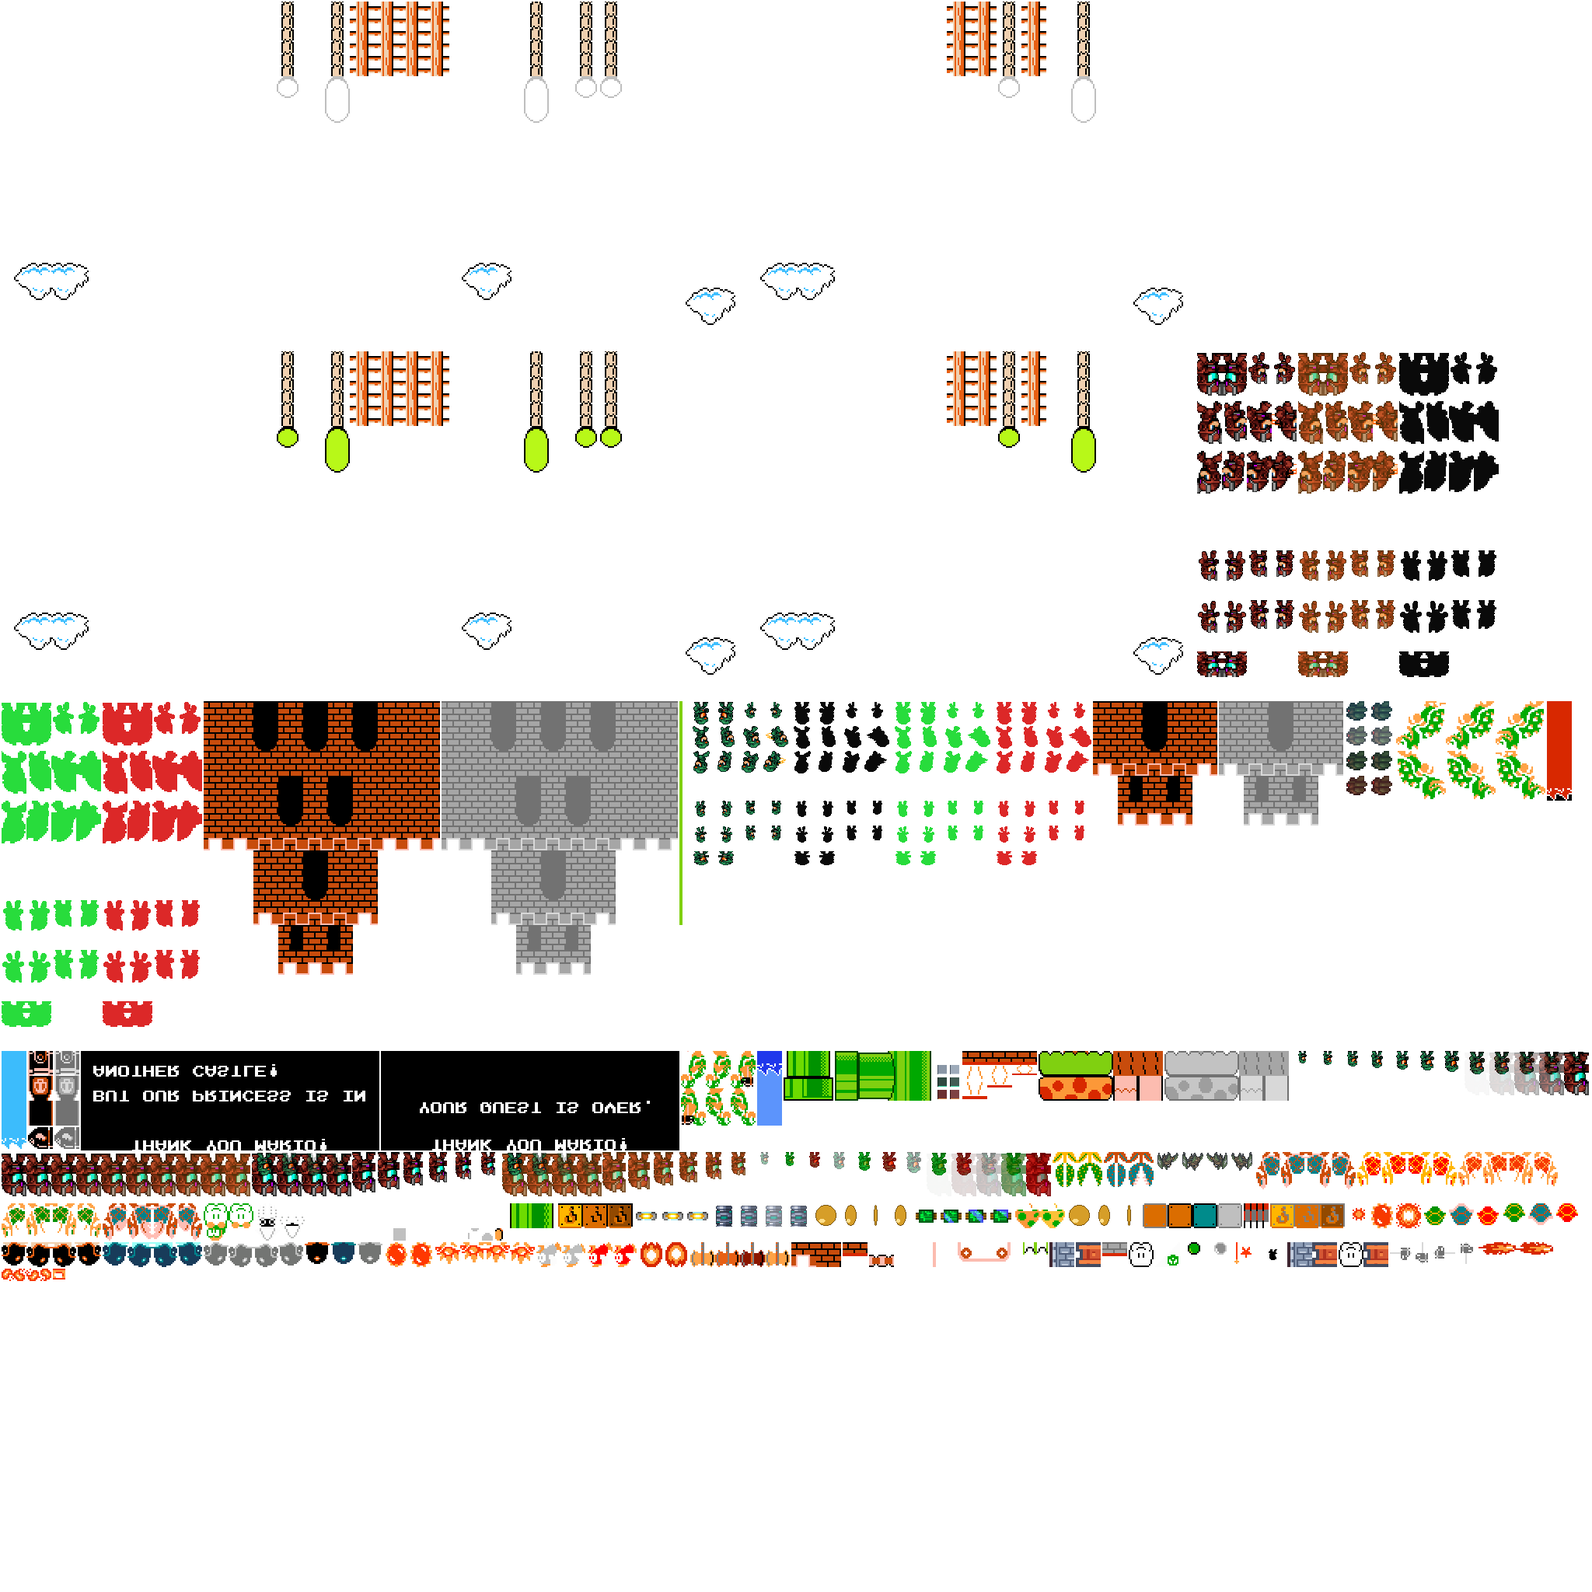
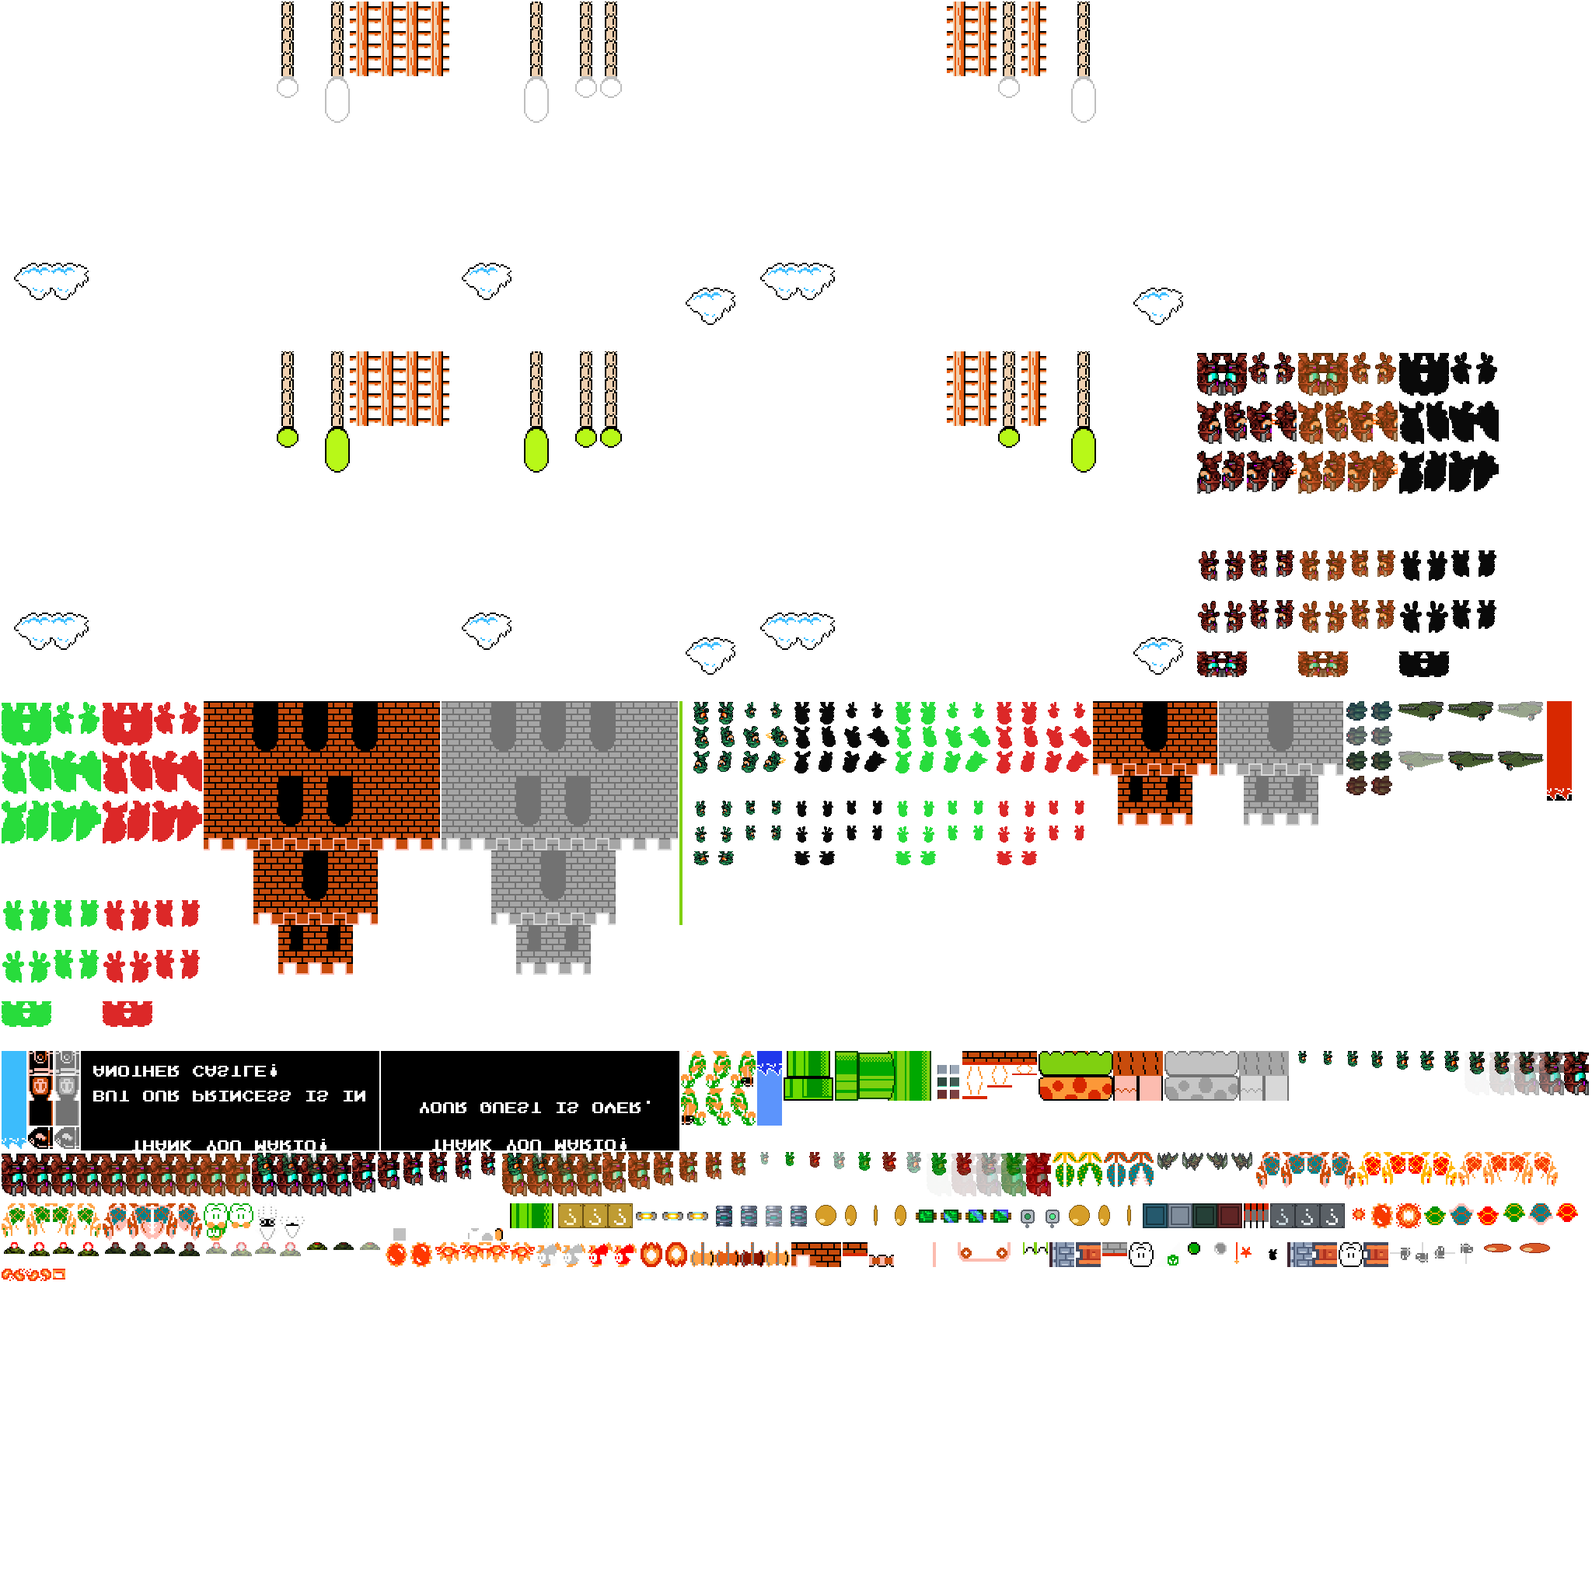
R.4 Junior Dev Guide Tasks 1-5: Iron, QuestionMark, Helmet, Boss/BossFire, 1UP
Redoes the R.4 handoff from scratch - the prior junior-dev pass had produced
no output at all (guide + sprite_tools.py existed, none of its tasks run).

- Iron: procedural, per-theme palette reused from stone/chocolate/brick, but
  flatter/duller to read as "depleted".
- QuestionMark/QuestionMarkGrey: procedural beveled block + hand-drawn pixel
  "?" glyph, brightening across the 3-frame idle bob. Confirmed Bank.java
  reuses the plain themed brick region instead - no new art needed there.
- Helmet family: Robot Master Series' enemy3, a clam/shell creature (not a
  legged walker like enemy1/enemy2, confirmed via getbbox scan) - its shut
  frame doubles as helmet_shell directly.
- Boss/BossFire (The Warden): Robot Master Series' miniboss1 tank-robot
  (144x80/frame, confirmed via PIL, not the filename convention alone); no
  boss-body fire pose exists in source, built via glow_pulse instead.
  BossFire is a procedural ember (same technique as the coin).
- 1UP (Spare chassis): hand-pixelled chassis/antenna icon.

Every crop verified via getbbox() at generation time, every output PNG
viewed before packing. Packed (51/122 overlay, up from 39/122, same
page/region counts) and compiled clean. Not yet on-device tested - no test
device available this session.

Claude-Session: https://claude.ai/code/session_01AwSuhSoywzR375iAH3BYRv

diff --git a/docs/assets/mario-sprites/ampere-staging/build_r4_tasks1to5.py b/docs/assets/mario-sprites/ampere-staging/build_r4_tasks1to5.py
@@ -1,0 +1,265 @@
+"""
+Step R.4, Junior Dev Guide Tasks 1-5 (docs/mario/MARIO_RESKIN_JUNIOR_DEV_GUIDE.md Sec4).
+
+Task 1 - Iron ("used up" block): procedural, reusing the same per-theme
+    palette as stone/chocolate/brick (build_terrain_and_common.py's THEMES),
+    but flatter/duller ("depleted") - no light-accent corners, single inset
+    panel instead of the raised-center look stone_tile uses.
+Task 2 - QuestionMark / QuestionMarkGrey: procedural beveled block + a
+    hand-drawn pixel "?" glyph (bitmap font below), glowing brighter across
+    the 3 idle-bob frames. Bank confirmed (by reading Bank.java) to reuse
+    the plain "brick" themed region, NOT question_mark - no new art needed
+    for Bank itself.
+Task 3 - Helmet/HelmetShell family: Robot Master Series' enemy3 (a
+    clam-like creature that opens/closes - confirmed via enemy3all.png and
+    per-frame getbbox() scan, NOT a legged walker like enemy1/enemy2). Its
+    closed frame doubles naturally as "helmet_shell" (a shut shell), open
+    frames as the "helmet" walk animation - a better thematic fit than
+    forcing a legged-walk read onto a shell creature.
+Task 4 - The Warden (Boss/BossFire): Robot Master Series' miniboss1 (a
+    tank-style robot, confirmed 144x80/frame via
+    miniboss1_base[80height144wide].png, 11 near-identical left-facing
+    frames - the bracket naming is [[height]height[width]wide], confirmed
+    against actual PIL .size, not assumed). No boss-body "spitting fire"
+    pose exists in the source (the laser sheets are beam VFX, not body
+    poses) - built via glow_pulse on the idle pose instead. BossFire (the
+    thrown projectile, 48x16/frame) has no source match either - procedural
+    flame/ember, same technique already used for the coin.
+Task 5 - Spare chassis (one_up/Life.java): no clean thematic match found in
+    either pack (confirmed by KENNEY_ALL_IN_ONE_INDEX.md Sec2's own research) -
+    hand-pixelled small chassis/antenna icon per the guide's own recommended
+    fallback, cheaper and more on-identity than importing a heart icon.
+
+Every crop is verified via getbbox() before use - printed at generation time.
+"""
+import sys
+sys.path.insert(0, "C:/workspace/morsecode/docs/assets/mario-sprites/ampere-staging")
+from sprite_tools import verified_crop, place_content, tint, glow_pulse, mirror, build_sheet, is_tileable_texture
+from PIL import Image, ImageDraw
+import os
+
+OUT = "C:/workspace/morsecode/docs/assets/mario-sprites/reskin-source"
+ROBOT_PACK = "C:/workspace/robot_series_base_pack"
+
+# Same palette already established for stone/chocolate/brick (Ground/
+# Substrate/Fortress/Flooded Sector) - reused here so Iron/QuestionMark read
+# as "part of this world" rather than a mismatched fifth material.
+THEMES = {
+    "":              ((138, 151, 166), (77, 88, 102), (199, 210, 219)),
+    "_UnderGround":  ((47, 74, 65),    (22, 36, 31),   (53, 208, 160)),
+    "_Castle":       ((107, 47, 47),   (58, 23, 23),   (217, 140, 74)),
+    "_Sea":          ((47, 99, 119),   (22, 53, 64),   (127, 224, 232)),
+}
+
+
+def rect(im, x0, y0, x1, y1, color):
+    for y in range(y0, y1):
+        for x in range(x0, x1):
+            im.putpixel((x, y), color + (255,))
+
+
+# ------------------------------------------------------------- Task 1: Iron
+
+def iron_tile(base, dark):
+    """A flatter, duller variant of stone_tile - single inset panel, no
+    light-accent corners - reads as "depleted/used up" next to the
+    brighter, highlight-cornered stone/chocolate/brick tiles."""
+    im = Image.new("RGBA", (32, 32), dark + (255,))
+    rect(im, 2, 2, 30, 30, base)
+    rect(im, 4, 4, 28, 28, dark)
+    rect(im, 6, 6, 26, 26, tuple(max(0, c - 10) for c in base))
+    return im
+
+
+def build_iron():
+    print("Iron (procedural, per-theme):")
+    # AssetSpec: iron -> Iron.png, 4 cols x 1 row. Frame 0=Sea (unused in
+    # World 1 but still drawn for completeness), 1=Ground, 2=UnderGround,
+    # 3=Castle (per Iron.java's FRAME_GROUND/FRAME_UNDERGROUND/FRAME_CASTLE).
+    order = ["_Sea", "", "_UnderGround", "_Castle"]
+    frames = [iron_tile(THEMES[k][0], THEMES[k][1]) for k in order]
+    build_sheet(32, 32, frames, 4, 1, f"{OUT}/Iron.png")
+
+
+# ------------------------------------------------------- Task 2: QuestionMark
+
+# A compact 5x7 pixel "?" glyph (1=filled). Hand-drawn, not extracted.
+GLYPH_QMARK = [
+    "01110",
+    "10001",
+    "00001",
+    "00010",
+    "00100",
+    "00000",
+    "00100",
+]
+
+
+def glyph_mask(glyph, scale):
+    gw, gh = len(glyph[0]), len(glyph)
+    im = Image.new("L", (gw, gh), 0)
+    for y, row in enumerate(glyph):
+        for x, c in enumerate(row):
+            if c == "1":
+                im.putpixel((x, y), 255)
+    return im.resize((gw * scale, gh * scale), Image.NEAREST)
+
+
+def question_block(base, dark, light, glow, glow_strength):
+    im = Image.new("RGBA", (32, 32), base + (255,))
+    rect(im, 0, 0, 32, 1, dark)
+    rect(im, 0, 31, 32, 32, dark)
+    rect(im, 0, 0, 1, 32, dark)
+    rect(im, 31, 0, 32, 32, dark)
+    for cx, cy in ((2, 2), (2, 29), (29, 2), (29, 29)):
+        rect(im, cx - 1, cy - 1, cx + 1, cy + 1, dark)
+    mask = glyph_mask(GLYPH_QMARK, 3)
+    mw, mh = mask.size
+    gx, gy = (32 - mw) // 2, (32 - mh) // 2 - 1
+    glyph_color = tuple(min(255, int(c + (255 - c) * glow_strength)) for c in glow)
+    glyph_layer = Image.new("RGBA", (32, 32), (0, 0, 0, 0))
+    glyph_layer.paste(Image.new("RGBA", mask.size, glyph_color + (255,)), (gx, gy), mask)
+    im.alpha_composite(glyph_layer)
+    return im
+
+
+def build_question_mark():
+    print("QuestionMark / QuestionMarkGrey (procedural, 3-frame bob):")
+    # question_mark (Ground/Sea contexts): amber block, bright cyan-white glyph.
+    base, dark, light = (191, 156, 51), (107, 82, 20), (247, 214, 130)
+    glow = (255, 244, 200)
+    frames = [question_block(base, dark, light, glow, s) for s in (0.0, 0.45, 1.0)]
+    build_sheet(32, 32, frames, 3, 1, f"{OUT}/QuestionMark.png")
+
+    # question_mark_grey (UnderGround/Castle): muted grey block, dimmer glow.
+    base_g, dark_g, light_g = (90, 96, 102), (48, 52, 58), (150, 156, 162)
+    glow_g = (200, 214, 220)
+    frames_g = [question_block(base_g, dark_g, light_g, glow_g, s) for s in (0.0, 0.4, 0.85)]
+    build_sheet(32, 32, frames_g, 3, 1, f"{OUT}/QuestionMarkGrey.png")
+
+
+# --------------------------------------------------------- Task 3: Helmet
+
+def build_helmet():
+    print("Helmet / HelmetShell family (Robot Master Series enemy3, verified crops):")
+    sheet = Image.open(f"{ROBOT_PACK}/enemy3/enemy3attack-Sheet[32height32wide].png").convert("RGBA")
+    assert sheet.size == (352, 32), f"unexpected enemy3attack sheet size {sheet.size}"
+    n = sheet.width // 32
+    frames = [verified_crop(sheet, (i * 32, 0, (i + 1) * 32, 32), f"enemy3_f{i}") for i in range(n)]
+
+    # frame 0 = fully closed shell (content bbox height ~7px) - use directly
+    # for helmet_shell (a shut shell is exactly what that state should look
+    # like). frames 2 and 5 = two distinct mid-open poses, used as the
+    # "walk" pair (this creature has no leg-walk animation - an opening/
+    # closing shell reads as its equivalent of movement).
+    shell_raw = frames[0]
+    walk_a_raw = frames[2]
+    walk_b_raw = frames[5]
+
+    shell_base = place_content(shell_raw, 32, 32, fill=0.8, anchor="bottom")
+    walk_a = place_content(walk_a_raw, 32, 32, fill=0.85, anchor="bottom")
+    walk_b = place_content(walk_b_raw, 32, 32, fill=0.85, anchor="bottom")
+
+    # Source is a green shell / red interior, already close to a "normal"
+    # palette - dark and white variants are tint-recolors of the same art,
+    # matching how Scuttler/Roller's theme recolors already work.
+    palettes = {
+        "": (None, None),                      # normal - no tint, use source colors as-is
+        "dark": ((25, 35, 30), 0.65),           # dark, mossy
+        "white": ((225, 230, 232), 0.55),      # pale/white
+    }
+    for suffix, (color, strength) in palettes.items():
+        def maybe_tint(frame):
+            return tint(frame, color, strength) if color else frame
+
+        left_a, left_b = mirror(maybe_tint(walk_a)), mirror(maybe_tint(walk_b))
+        right_a, right_b = maybe_tint(walk_a), maybe_tint(walk_b)
+        # Helmet.java: cols 0-1 = left-facing walk pair, cols 2-3 = right-facing walk pair.
+        frames_out = [left_a, left_b, right_a, right_b]
+        name = f"Helmet{suffix}.png" if not suffix else f"Helmet{suffix}.png"
+        # Match AssetSpec exact filenames: Helmet.png / Helmetdark.png / Helmetwhite.png
+        fname = {"": "Helmet.png", "dark": "Helmetdark.png", "white": "Helmetwhite.png"}[suffix]
+        build_sheet(32, 32, frames_out, 4, 1, f"{OUT}/{fname}")
+
+        shell_fname = {"": "HelmetShell.png", "dark": "HelmetShelldark.png", "white": "HelmetShellwhite.png"}[suffix]
+        maybe_tint(shell_base).save(f"{OUT}/{shell_fname}")
+        print("wrote", f"{OUT}/{shell_fname}")
+
+
+# ----------------------------------------------------- Task 4: The Warden
+
+def build_boss():
+    print("The Warden / Boss + BossFire (Robot Master Series miniboss1, verified crops):")
+    base_sheet = Image.open(f"{ROBOT_PACK}/miniboss1/miniboss1_base[80height144wide].png").convert("RGBA")
+    fw, fh = 144, 80
+    assert base_sheet.size[1] == fh and base_sheet.size[0] % fw == 0, f"unexpected miniboss1 base sheet size {base_sheet.size}"
+    idle_a_raw = verified_crop(base_sheet, (0 * fw, 0, 1 * fw, fh), "miniboss_idle_a")
+    idle_b_raw = verified_crop(base_sheet, (1 * fw, 0, 2 * fw, fh), "miniboss_idle_b")
+
+    # Boss.java: super(region, tileSize*2, tileSize*2, ...) - 64x64 cell, and
+    # its own doc: "boss" region is 64x64/frame, 3 cols x 2 rows.
+    cell = 64
+    idle_a = place_content(idle_a_raw, cell, cell, fill=0.92, anchor="bottom")
+    idle_b = place_content(idle_b_raw, cell, cell, fill=0.92, anchor="bottom")
+    fire_pose = glow_pulse(idle_a, 0.45)  # no distinct "spitting fire" body pose exists in source; a bright flash reads as "active/firing"
+
+    left_a, left_b, left_fire = idle_a, idle_b, fire_pose
+    right_a, right_b, right_fire = mirror(idle_a), mirror(idle_b), mirror(fire_pose)
+
+    # Linear frame index = row * cols + col (row-major, confirmed by the
+    # existing player/enemy/terrain sheets' own row convention). Per
+    # Boss.java's doc: 0/1=look-left idle, 2=fire pose, 4/5=look-right idle
+    # (3 unused - filled with the mirrored fire pose for completeness).
+    frames_by_cell = {
+        (0, 0): left_a, (1, 0): left_b, (2, 0): left_fire,
+        (0, 1): right_fire, (1, 1): right_a, (2, 1): right_b,
+    }
+    build_sheet(cell, cell, frames_by_cell, 3, 2, f"{OUT}/Boss.png")
+
+    # BossFire.java: "boss_fire" region is 48x16/frame, 2 frames (96x16
+    # total). No source match in either pack (the laser sheets are beam
+    # VFX, not a drifting-flame shape) - procedural ember, same technique
+    # already used for the Bolt/gear coin.
+    def flame_frame(flicker):
+        im = Image.new("RGBA", (48, 16), (0, 0, 0, 0))
+        draw = ImageDraw.Draw(im)
+        w = 34 + flicker
+        h = 10 + flicker // 2
+        x0, y0 = (48 - w) // 2, (16 - h) // 2
+        draw.ellipse((x0, y0, x0 + w, y0 + h), fill=(217, 90, 40, 255), outline=(140, 40, 20, 255))
+        hi_w, hi_h = max(2, w // 3), max(2, h // 3)
+        draw.ellipse((x0 + 4, y0 + 2, x0 + 4 + hi_w, y0 + 2 + hi_h), fill=(255, 200, 120, 230))
+        return im
+
+    build_sheet(48, 16, [flame_frame(0), flame_frame(4)], 2, 1, f"{OUT}/BossFire.png")
+
+
+# ------------------------------------------------------- Task 5: Spare chassis
+
+def build_one_up():
+    print("Spare chassis / 1UP (hand-pixelled, no source match found):")
+    # A small chassis/head icon: rounded grey-blue head shape with a single
+    # green "life" light - distinct from the Battery cell (orange glow) and
+    # Overclock chip (green gem) so it doesn't read as either of those.
+    def chassis_frame(lit):
+        im = Image.new("RGBA", (32, 32), (0, 0, 0, 0))
+        draw = ImageDraw.Draw(im)
+        draw.rounded_rectangle((7, 6, 24, 23), radius=4, fill=(180, 188, 196, 255), outline=(90, 96, 104, 255), width=2)
+        # small antenna
+        draw.line((15, 6, 15, 2), fill=(120, 128, 136, 255), width=2)
+        draw.ellipse((13, 0, 17, 4), fill=(120, 128, 136, 255))
+        # single eye/life-light, brighter in the "lit" frame
+        eye_color = (86, 232, 140, 255) if lit else (54, 158, 96, 255)
+        draw.ellipse((12, 11, 19, 18), fill=eye_color, outline=(30, 60, 40, 255))
+        return im
+
+    build_sheet(32, 32, [chassis_frame(False), chassis_frame(True)], 2, 1, f"{OUT}/1UP.png")
+
+
+if __name__ == "__main__":
+    os.makedirs(OUT, exist_ok=True)
+    build_iron()
+    build_question_mark()
+    build_helmet()
+    build_boss()
+    build_one_up()

diff --git a/docs/mario/MARIO_RESKIN_EXECUTION.md b/docs/mario/MARIO_RESKIN_EXECUTION.md
@@ -547,11 +547,53 @@ closes.
       a bug report. Packed (39/122 overlay) and compiled clean; **not yet on-device
       verified.**
 
-      **Still open for R.4** (tier-3/4 per §16.4, not yet started): `turtle_shell_red`/
-      `_flip` variants and `enemy_turtle_patrol` (not reached by World 1's own data, per
-      `TurtleShell.java`'s doc — lower priority); Plater/`FlyingTurtle`/`Helmet` family;
-      `Iron`; `QuestionMark`/`Bank` family; The Warden/`Boss`; and tier-4's long tail of
-      one-off enemies/mechanisms.
+      **2026-09-12: Junior Dev Guide Tasks 1-5 done** (`build_r4_tasks1to5.py`, per
+      [MARIO_RESKIN_JUNIOR_DEV_GUIDE.md §4](MARIO_RESKIN_JUNIOR_DEV_GUIDE.md#4-ready-to-execute-tasks-do-these-first-in-order)) —
+      the prior junior-dev handoff had produced no output at all (guide + `sprite_tools.py`
+      existed, none of its tasks executed); redone from scratch here:
+      - **Task 1 (Iron)**: procedural, reusing the exact per-theme palette already
+        established for stone/chocolate/brick, but flatter/duller (no light-accent
+        corners, single inset panel) so it reads as "depleted" next to the brighter
+        active tiles. 4-frame Sea/Ground/UnderGround/Castle strip.
+      - **Task 2 (QuestionMark/QuestionMarkGrey)**: procedural beveled block + a
+        hand-drawn 5×7 pixel "?" glyph bitmap, brightening across the 3-frame idle bob.
+        **Confirmed by reading `Bank.java`**: Bank does *not* use the question_mark
+        region at all — it reuses the plain themed `brick` region (`MarioResourceManager.themedRegion("brick", attribute)`) — no new art needed for Bank itself, closing the guide's own open question about it.
+      - **Task 3 (Helmet family)**: sourced from Robot Master Series' `enemy3` — **not
+        a legged walker like enemy1/enemy2** (confirmed via `enemy3all.png` and a
+        per-frame `getbbox()` scan: it's a clam/shell creature that opens and closes,
+        11 frames going from fully-shut to fully-open). Frame 0 (shut) doubles directly
+        as `helmet_shell` — a closed shell is exactly the right "retracted" look: two
+        mid-open frames become the walk-pair. `dark`/`white` are tint recolors of the
+        same source art (dark tint strengthened to 0.65 after an initial pass at 0.5
+        looked too similar to normal side-by-side).
+      - **Task 4 (The Warden = Boss/BossFire)**: sourced from Robot Master Series'
+        `miniboss1_base[80height144wide].png` — confirmed via `PIL .size` that the
+        bracket suffix means 144 wide × 80 tall/frame (11 near-identical left-facing
+        tank-robot poses), not assumed from the filename alone. No boss-body
+        "spitting fire" pose exists anywhere in the source (the `miniboss1_laser_*`
+        sheets are beam VFX strips, not body poses) — the fire pose is a `glow_pulse`
+        flash on the idle pose instead, matching `Boss.java`'s own re-verified frame
+        layout (linear index = row-major: 0/1=left idle, 2=fire, 4/5=right idle, 3
+        unused). `BossFire` (the thrown projectile, 48×16/frame) has no source match
+        either — procedural ember, same technique as the Bolt/gear coin.
+      - **Task 5 (Spare chassis/1UP)**: hand-pixelled small chassis/antenna icon (grey
+        head shape, green life-light, 2-frame blink) rather than the pragmatic
+        heart-icon fallback — per the guide's own note this is worth the ~20 minutes
+        of custom art since it fits the mechanical identity better.
+
+      Packed (51/122 overlay, up from 39/122 — 12 new files, same page/region counts
+      as before) and compiled clean. Every crop verified via `getbbox()` at generation
+      time (printed), every output PNG actually viewed before packing, per the guide's
+      Golden Rule. **Not yet on-device tested** — no test device available in this
+      session; flagging for on-device confirmation per the guide's own step 10 before
+      this is considered fully closed.
+
+      **Still open for R.4** (tier-3/4 per §16.4): `turtle_shell_red`/`_flip` variants
+      and `enemy_turtle_patrol` (not reached by World 1's own data, lower priority);
+      Plater/`FlyingTurtle` family (the *walking* enemies, distinct from the Helmet
+      buzzy-beetle family just closed above); and tier-4's long tail of one-off
+      enemies/mechanisms/scenery per [MARIO_RESKIN_JUNIOR_DEV_GUIDE.md §5](MARIO_RESKIN_JUNIOR_DEV_GUIDE.md#5-the-rest-of-tier-34--same-recipe-less-hand-holding).
 
 ### Step R.5 — Scenery, backdrops, HUD, UI text
 
